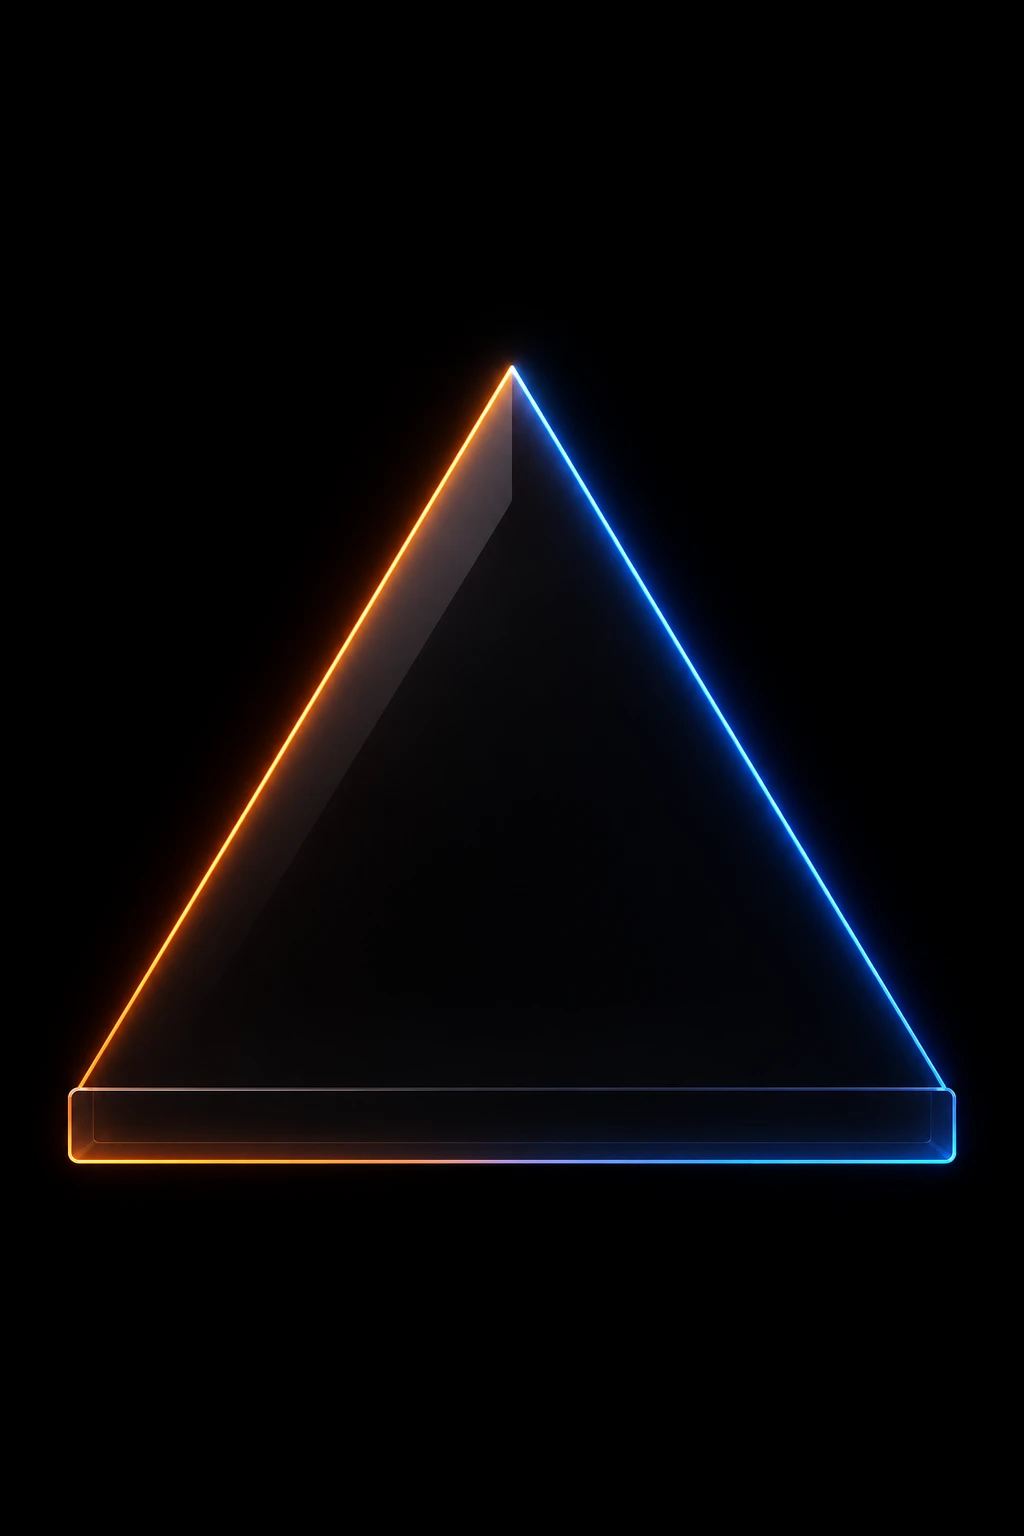
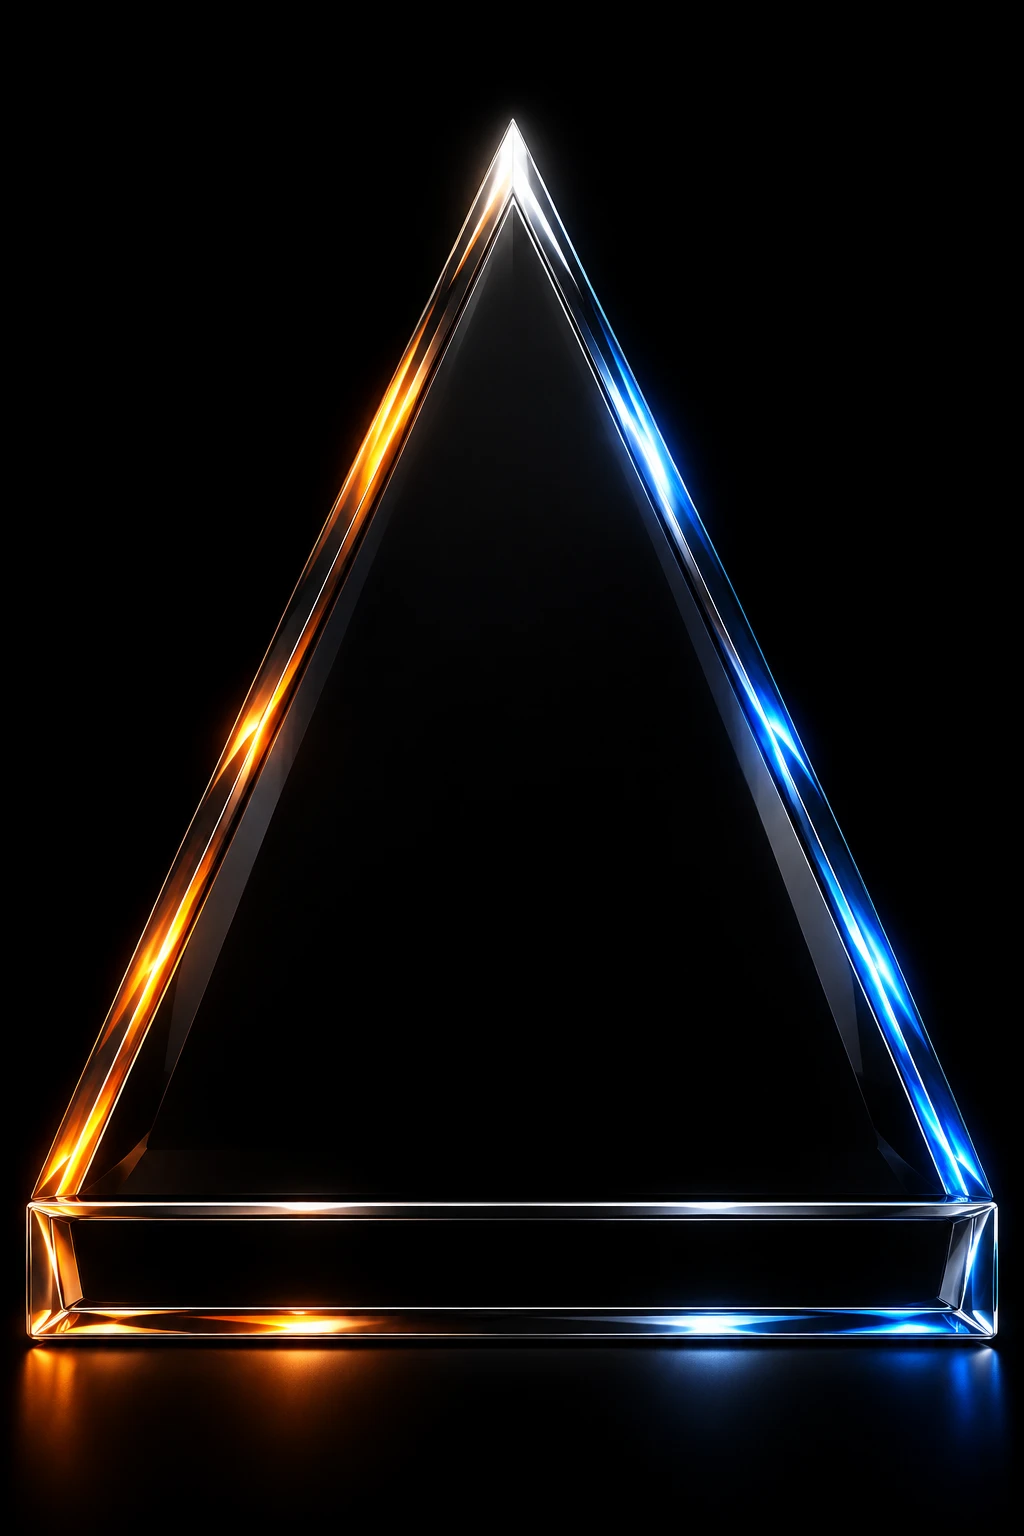
feat(board): obsidian triangle with chrome ball pegs for the minimalist design
The minimalist cabinet becomes a black obsidian triangle in a mirror-chrome
bevel with amber and blue light inlaid, replacing the vector outline. Pegs are
polished chrome balls that reflect the frame's warm and cool light. The rows
now run parallel to the sides with an even margin on every screen (the row gap
follows the sides' slope and the art is never stretched), and the bins spread
out to fill the tray.

Changed region(s): [[0.0, 0.0625, 1.0, 0.9688]]

diff --git a/src/board/theme.ts b/src/board/theme.ts
@@ -257,30 +257,7 @@ export function binSprites(
   return { normal: draw(false), lit: draw(true), pad };
 }
 
-// ---------- neon style (the minimalist glass triangle) ----------
-
-/** Neon peg: a small white-hot core inside a soft cool halo. Sprite size = 2 × radius × 2.2. */
-export const NEON_PEG_SCALE = 2.2;
-
-export function neonPegSprite(radius: number): HTMLCanvasElement {
-  const R = Math.ceil(radius * NEON_PEG_SCALE);
-  const { canvas, ctx } = makeCanvas(R * 2, R * 2);
-  const halo = ctx.createRadialGradient(R, R, radius * 0.3, R, R, R);
-  halo.addColorStop(0, 'rgba(220, 230, 255, 0.55)');
-  halo.addColorStop(0.45, 'rgba(170, 190, 255, 0.14)');
-  halo.addColorStop(1, 'rgba(150, 170, 255, 0)');
-  ctx.fillStyle = halo;
-  ctx.fillRect(0, 0, R * 2, R * 2);
-  const core = ctx.createRadialGradient(R, R, 0, R, R, radius * 0.62);
-  core.addColorStop(0, '#ffffff');
-  core.addColorStop(0.7, '#eef2ff');
-  core.addColorStop(1, 'rgba(230, 236, 255, 0.9)');
-  ctx.fillStyle = core;
-  ctx.beginPath();
-  ctx.arc(R, R, radius * 0.62, 0, Math.PI * 2);
-  ctx.fill();
-  return canvas;
-}
+// ---------- neon style (the minimalist obsidian triangle) ----------
 
 /**
  * Neon bin: dark glass with a thin outline and glowing digits in the bin's colour.
@@ -341,4 +318,74 @@ export function neonBinSprites(
     return canvas;
   };
   return { normal: draw(false), lit: draw(true), pad };
+}
+
+/**
+ * Polished chrome ball for the crystal design: dark steel body, a sharp highlight at the
+ * top left, and the frame's warm and cool light reflected on its left and right flanks.
+ * Sprite size = 2 × radius + 2 (device px), like pegSprite.
+ */
+export function chromeBallSprite(radius: number): HTMLCanvasElement {
+  const size = Math.ceil(radius * 2 + 2);
+  const { canvas, ctx } = makeCanvas(size, size);
+  const c = size / 2;
+  ctx.save();
+  ctx.beginPath();
+  ctx.arc(c, c, radius, 0, Math.PI * 2);
+  ctx.clip();
+  // steel body: light from the top, darker towards the bottom rim
+  const body = ctx.createLinearGradient(0, c - radius, 0, c + radius);
+  body.addColorStop(0, '#d9dde3');
+  body.addColorStop(0.45, '#6d737c');
+  body.addColorStop(0.75, '#2a2d33');
+  body.addColorStop(1, '#8a9099');
+  ctx.fillStyle = body;
+  ctx.fillRect(0, 0, size, size);
+  // warm reflection on the left flank, cool on the right
+  const warm = ctx.createRadialGradient(
+    c - radius * 0.7,
+    c + radius * 0.3,
+    0,
+    c - radius * 0.7,
+    c + radius * 0.3,
+    radius * 0.8,
+  );
+  warm.addColorStop(0, 'rgba(255, 150, 60, 0.55)');
+  warm.addColorStop(1, 'rgba(255, 150, 60, 0)');
+  ctx.fillStyle = warm;
+  ctx.fillRect(0, 0, size, size);
+  const cool = ctx.createRadialGradient(
+    c + radius * 0.7,
+    c + radius * 0.3,
+    0,
+    c + radius * 0.7,
+    c + radius * 0.3,
+    radius * 0.8,
+  );
+  cool.addColorStop(0, 'rgba(90, 160, 255, 0.55)');
+  cool.addColorStop(1, 'rgba(90, 160, 255, 0)');
+  ctx.fillStyle = cool;
+  ctx.fillRect(0, 0, size, size);
+  ctx.restore();
+  // sharp specular highlight
+  const spec = ctx.createRadialGradient(
+    c - radius * 0.32,
+    c - radius * 0.38,
+    0,
+    c - radius * 0.32,
+    c - radius * 0.38,
+    radius * 0.42,
+  );
+  spec.addColorStop(0, 'rgba(255, 255, 255, 1)');
+  spec.addColorStop(0.5, 'rgba(255, 255, 255, 0.5)');
+  spec.addColorStop(1, 'rgba(255, 255, 255, 0)');
+  ctx.fillStyle = spec;
+  ctx.beginPath();
+  ctx.arc(c, c, radius, 0, Math.PI * 2);
+  ctx.fill();
+  // thin dark outline keeps the ball crisp on the black plate
+  ctx.strokeStyle = 'rgba(0, 0, 0, 0.6)';
+  ctx.lineWidth = Math.max(1, radius * 0.1);
+  ctx.stroke();
+  return canvas;
 }

diff --git a/src/board/cabinet.ts b/src/board/cabinet.ts
@@ -4,6 +4,7 @@
  * (1016×1414, cropped to the guitar from `art/cabinet-guitar-source.webp`).
  */
 import cabinetUrl from '../assets/cabinet.webp';
+import minimalUrl from '../assets/cabinet-minimal.webp';
 import type { Skin } from '../core/storage';
 
 export interface CabinetLayout {
@@ -35,8 +36,15 @@ export interface CabinetLayout {
    * 'bottom' sits the pyramid on the shelf, for a pointed frame that is wider further down.
    */
   pyramidAlign?: 'center' | 'bottom';
-  /** Largest row gap in pitches (default 1.3); match it to the frame's slope so the rows follow its sides. */
-  maxRowGap?: number;
+  /**
+   * Rows run parallel to the plate's sides: the row gap is set from the sides' slope, so
+   * the pyramid keeps an even margin to the frame from top to bottom.
+   */
+  rowsFollowSides?: boolean;
+  /** Bins spread out to fill the shelf's width (their pitch may exceed the peg pitch a little). */
+  binsFillShelf?: boolean;
+  /** How much wider than its art the cabinet may be drawn (default 1.18). */
+  maxStretch?: number;
 }
 
 export const CABINET_LAYOUT: CabinetLayout = {
@@ -60,34 +68,37 @@ export const CABINET_LAYOUT: CabinetLayout = {
 export const CABINET_URL: string = cabinetUrl;
 
 /**
- * Second design, the classic look: a flat smoked-glass triangle with one thin neon edge
- * (orange to blue) and a glass tray for the bins. Measured on `art/cabinet-minimal.png`
- * (964×880, cropped from `art/cabinet-minimal-source.webp`). The flat art is drawn stretched
- * to 964×1300, so the pyramid gets the tall phone screen.
+ * Second design, the classic look: a black obsidian triangle in a mirror-chrome bevel with
+ * light inlaid in it, amber on the left and blue on the right, and a chrome-rimmed tray for
+ * the bins. Measured on `art/cabinet-minimal.png` (1024×1290, cropped from
+ * `art/cabinet-minimal-source.webp`). The pyramid sits on the tray and its row gap matches
+ * the sides' slope, so the rows run parallel to the bevel with an even margin.
  */
 export const MINIMAL_LAYOUT: CabinetLayout = {
-  aspect: 964 / 1300,
+  aspect: 1024 / 1290,
   field: {
-    top: 0.1136,
-    bottom: 0.8693,
-    leftTop: 0.4699,
-    rightTop: 0.5301,
-    leftBottom: 0.0581,
-    rightBottom: 0.9357,
-    corner: 4 / 1300,
-    topCorner: 30 / 1300,
+    top: 0.1163,
+    bottom: 0.8589,
+    leftTop: 0.4808,
+    rightTop: 0.521,
+    leftBottom: 0.1253,
+    rightBottom: 0.8767,
+    corner: 4 / 1290,
+    topCorner: 4 / 1290,
   },
-  channels: { top: 0.8557, bottom: 0.8693 },
-  shelf: { top: 0.883, bottom: 0.9432, left: 0.0643, right: 0.9357 },
+  channels: { top: 0.846, bottom: 0.8589 },
+  shelf: { top: 0.8775, bottom: 0.9411, left: 0.083, right: 0.916 },
   maxOverflow: 1,
   pyramidAlign: 'bottom',
-  maxRowGap: 1.22,
+  rowsFollowSides: true,
+  binsFillShelf: true,
+  // the bevelled frame must not be distorted
+  maxStretch: 1,
 };
 
-/** `url: null` = the cabinet is drawn in code (see glass.ts), not loaded as an image. */
-export const CABINETS: Record<Skin, { url: string | null; layout: CabinetLayout }> = {
+export const CABINETS: Record<Skin, { url: string; layout: CabinetLayout }> = {
   guitar: { url: cabinetUrl, layout: CABINET_LAYOUT },
-  minimal: { url: null, layout: MINIMAL_LAYOUT },
+  minimal: { url: minimalUrl, layout: MINIMAL_LAYOUT },
 };
 
 /** The art carries its own colour; code draws only the steel bin dividers. */

diff --git a/src/board/geometry.ts b/src/board/geometry.ts
@@ -25,6 +25,8 @@ export interface BoardGeometry {
   binTop: number;
   binHeight: number;
   binWidth: number;
+  /** Distance between bin centres; equals `spacing` unless the bins are spread over a wider shelf. */
+  binPitch: number;
 }
 
 const ROW_GAP_RATIO = 0.92;
@@ -73,6 +75,7 @@ export function computeGeometry(width: number, height: number, rows: number): Bo
     binTop,
     binHeight,
     binWidth: spacing * 0.94,
+    binPitch: spacing,
   };
 }
 
@@ -128,7 +131,10 @@ export function computeCabinetGeometry(
   const { field, shelf, aspect } = layout;
   const overflow = layout.maxOverflow ?? CABINET_MAX_OVERFLOW;
   const cabH = Math.min(height, (width * overflow) / aspect);
-  const cabW = Math.min(width * overflow, cabH * aspect * CABINET_MAX_STRETCH);
+  const cabW = Math.min(
+    width * overflow,
+    cabH * aspect * (layout.maxStretch ?? CABINET_MAX_STRETCH),
+  );
   const cab: CabinetRect = { x: (width - cabW) / 2, y: height - cabH, w: cabW, h: cabH };
   const py = (fy: number) => cab.y + fy * cab.h;
 
@@ -183,7 +189,10 @@ export function computeCabinetGeometry(
     const top = fieldTop + TOP_GAP * s;
     const lastY = fieldBottom - BOTTOM_GAP * s;
     const free = rows > 1 ? (lastY - top) / (rows - 1) : s;
-    const rowGap = Math.min((layout.maxRowGap ?? MAX_ROW_GAP) * s, free);
+    // Following the sides: each row is half a pitch wider on each side, so the gap that keeps
+    // the rows parallel to the plate's edges is 0.5 / slope pitches.
+    const maxGap = layout.rowsFollowSides ? 0.5 / Math.abs(sideSlope) : MAX_ROW_GAP;
+    const rowGap = Math.min(maxGap * s, free);
     // Height the rows can't use is shared above and below, so the pyramid sits centred on
     // the plate instead of leaving all of it at the bottom.
     const spare = Math.max(0, lastY - top - (rows - 1) * rowGap);
@@ -215,6 +224,10 @@ export function computeCabinetGeometry(
   const spacing = lo;
   const { topY, rowGap } = layoutFor(spacing);
   const binHeight = Math.min(shelfHeight * 0.82, spacing * 2.1);
+  // Spread the bins over the shelf, but never more than 25 % wider than the pegs above them.
+  const binPitch = layout.binsFillShelf
+    ? Math.max(spacing, Math.min(spacing * 1.25, (shelfWidth * 0.97) / (rows + 1)))
+    : spacing;
 
   return {
     cabinet: cab,
@@ -240,7 +253,8 @@ export function computeCabinetGeometry(
       topY,
       binTop: shelfTop + (shelfHeight - binHeight) / 2,
       binHeight,
-      binWidth: spacing * 0.94,
+      binWidth: binPitch * 0.94,
+      binPitch,
     },
   };
 }
@@ -258,14 +272,14 @@ export function pegY(g: BoardGeometry, row: number): number {
 }
 
 export function binCenterX(g: BoardGeometry, bin: number): number {
-  return g.centerX + (bin - g.rows / 2) * g.spacing;
+  return g.centerX + (bin - g.rows / 2) * g.binPitch;
 }
 
 /** Bin under the point, or -1. Used for hover / tap tooltips. */
 export function binAt(g: BoardGeometry, x: number, y: number): number {
   if (y < g.binTop || y > g.binTop + g.binHeight) return -1;
   // `+ 0` turns Math.round's -0 (points just left of bin 0's centre) into 0.
-  const bin = Math.round((x - g.centerX) / g.spacing + g.rows / 2) + 0;
+  const bin = Math.round((x - g.centerX) / g.binPitch + g.rows / 2) + 0;
   if (bin < 0 || bin > g.rows) return -1;
   return Math.abs(x - binCenterX(g, bin)) <= g.binWidth / 2 ? bin : -1;
 }

diff --git a/src/board/renderer.ts b/src/board/renderer.ts
@@ -14,7 +14,6 @@
 import type { Direction } from '../core/rng';
 import type { Skin } from '../core/storage';
 import { CABINET_HAS_NEON, CABINETS, type CabinetLayout } from './cabinet';
-import { drawGlassTriangle } from './glass';
 import {
   NEON_GAP,
   NEON_MARGIN,
@@ -33,8 +32,8 @@ import {
   binColor,
   binLabelSize,
   binSprites,
+  chromeBallSprite,
   neonBinSprites,
-  neonPegSprite,
   glowSprite,
   pegSprite,
   type BinSpriteSet,
@@ -99,7 +98,7 @@ export class BoardRenderer {
   private cabinetLayer: HTMLCanvasElement | null = null;
   private skin: Skin = 'guitar';
   private cabinetLayout: CabinetLayout = CABINETS.guitar.layout;
-  /** Minimalist design: glowing pegs without strings, glass bins, coloured peg flashes. */
+  /** Minimalist design: chrome ball pegs without strings, glass bins, coloured peg flashes. */
   private neon = false;
   private pegGlowB: HTMLCanvasElement | null = null;
   /** Peg index range per row of the play pyramid (strings run across it). */
@@ -214,17 +213,13 @@ export class BoardRenderer {
     this.skin = skin;
     if (typeof Image === 'undefined') return;
     const { url, layout } = CABINETS[skin];
-    const apply = (img: HTMLImageElement | null) => {
+    const apply = (img: HTMLImageElement) => {
       this.cabinetImg = img;
       this.cabinetLayout = layout;
       this.neon = skin === 'minimal';
       this.cabinetReady = true;
       this.rebuild(false);
     };
-    if (!url) {
-      apply(null);
-      return;
-    }
     const img = new Image();
     img.decoding = 'async';
     img.onload = () => {
@@ -275,7 +270,7 @@ export class BoardRenderer {
     this.geometry = g;
     const d = this.dpr;
 
-    this.pegImg = this.neon ? neonPegSprite(g.pegRadius * d) : pegSprite(g.pegRadius * d);
+    this.pegImg = this.neon ? chromeBallSprite(g.pegRadius * 1.15 * d) : pegSprite(g.pegRadius * d);
     this.pegGlowImg = glowSprite(
       g.pegRadius * 4 * d,
       this.neon ? 'rgba(255, 150, 60, 1)' : BOARD_COLORS.pegGlow,
@@ -463,7 +458,7 @@ export class BoardRenderer {
     },
   ) {
     const img = this.cabinetImg;
-    if (!img && !this.neon) return null;
+    if (!img) return null;
     const layer = document.createElement('canvas');
     layer.width = this.canvas.width;
     layer.height = this.canvas.height;
@@ -471,9 +466,8 @@ export class BoardRenderer {
     if (!lctx) return null;
     const d = this.dpr;
     lctx.imageSmoothingQuality = 'high';
-    if (img) lctx.drawImage(img, rect.x * d, rect.y * d, rect.w * d, rect.h * d);
+    lctx.drawImage(img, rect.x * d, rect.y * d, rect.w * d, rect.h * d);
     lctx.setTransform(d, 0, 0, d, 0, 0);
-    if (!img) drawGlassTriangle(lctx, rect);
     this.drawNeon(lctx, g, field, rect);
     return layer;
   }
@@ -836,7 +830,7 @@ export class BoardRenderer {
       const pad = sprite.pad / this.dpr;
       const w = (g.binWidth + pad * 2) * scale;
       const h = (g.binHeight + pad * 2) * scale;
-      const cx = g.centerX + (k - g.rows / 2) * g.spacing;
+      const cx = binCenterX(g, k);
       const cy = g.binTop + g.binHeight / 2 + bounce;
       ctx.drawImage(sprite.normal, cx - w / 2, cy - h / 2, w, h);
       if (age < BIN_FLASH) {

diff --git a/README.md b/README.md
@@ -64,7 +64,7 @@ scripts/
 
 **Рендер.** Штырьки один раз рисуются в отдельный слой, шарики, свечения и ячейки — готовые спрайты, поэтому кадр — это копирование картинок. Цикл отрисовки работает только пока что-то движется. Собственные часы доски сдвигаются не больше чем на 50 мс за кадр: когда вкладка свёрнута и браузер не даёт кадров, полёт стоит на месте и продолжается с того же места. Авто-режим на это время тоже ставится на паузу.
 
-**Два дизайна доски.** Основной — корпус V-образной электрогитары, второй — классический минимализм: треугольник из тёмного стекла с тонкой неоновой гранью от оранжевого к синему. Оба стоят под лучами прожекторов, у треугольника фон темнее, чтобы тонкая неоновая грань оставалась самой яркой линией. Внутри треугольника своя начинка: светящиеся пины без струн, вспышки цвета своей стороны, стеклянные ячейки. Переключаются в меню или параметром `?skin=guitar|minimal`, выбор сохраняется вместе с остальными настройками. У каждой картинки своя разметка поля и полки ячеек (`src/board/cabinet.ts`). Пирамида заново подгоняется под неё, тесты проверяют это для обоих дизайнов на всех числах рядов.
+**Два дизайна доски.** Основной — корпус V-образной электрогитары, второй — классический минимализм: треугольник из чёрного обсидиана в зеркальной хромированной фаске со светом внутри, янтарным слева и синим справа. Оба стоят под лучами прожекторов, у треугольника фон темнее. Внутри треугольника своя начинка: хромированные шарики вместо пинов, без струн, вспышки цвета своей стороны, стеклянные ячейки. Ряды идут параллельно граням с одинаковым отступом, а ячейки растягиваются на всю полку. Переключаются в меню или параметром `?skin=guitar|minimal`, выбор сохраняется вместе с остальными настройками. У каждой картинки своя разметка поля и полки ячеек (`src/board/cabinet.ts`). Пирамида заново подгоняется под неё, тесты проверяют это для обоих дизайнов на всех числах рядов.
 
 ## Таблицы коэффициентов
 
